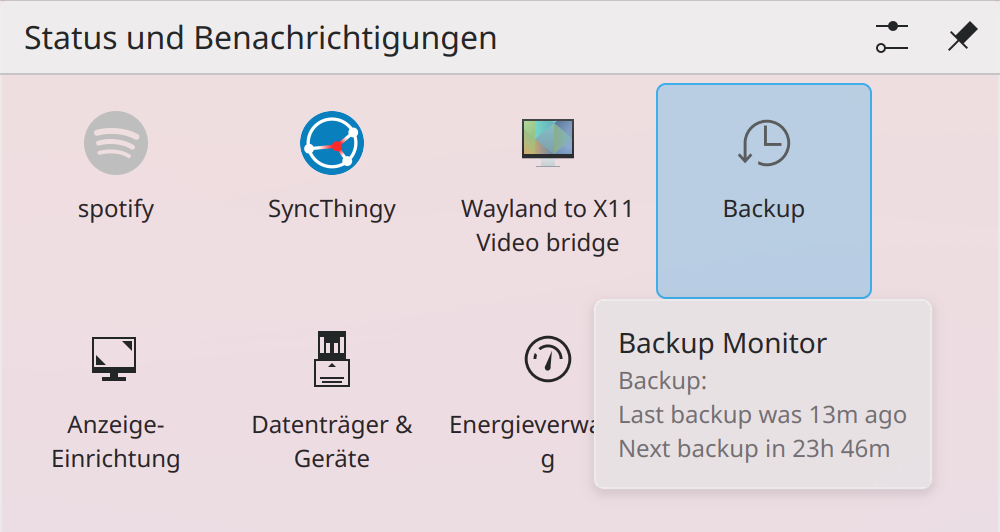
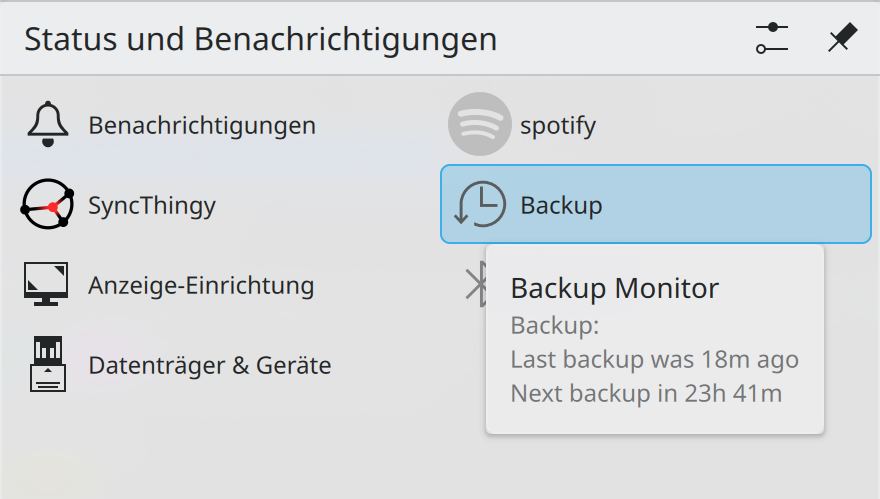
Update screenshot

diff --git a/README.md b/README.md
@@ -1,7 +1,7 @@
 # Backup Monitor
 
 <p align="center">
-    <img src="screenshot.png" alt="Screenshot of Backup Monitor" width="500" align="center" />
+    <img src="screenshot.png" alt="Screenshot of Backup Monitor" width="440" align="center" />
 </p>
 
 ## About
